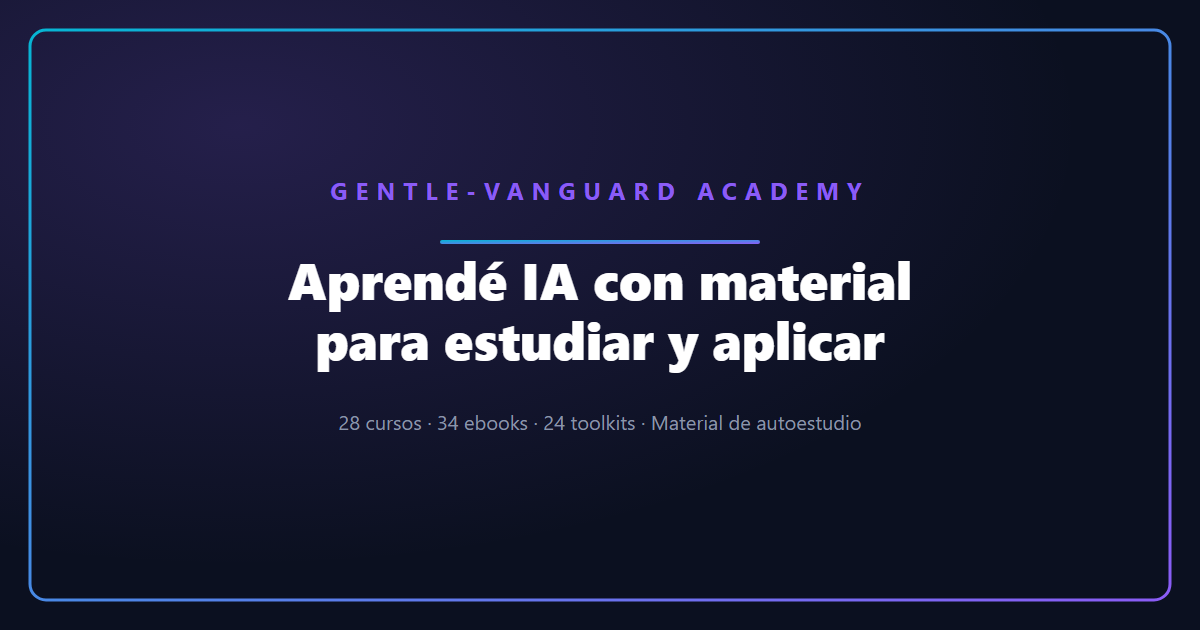
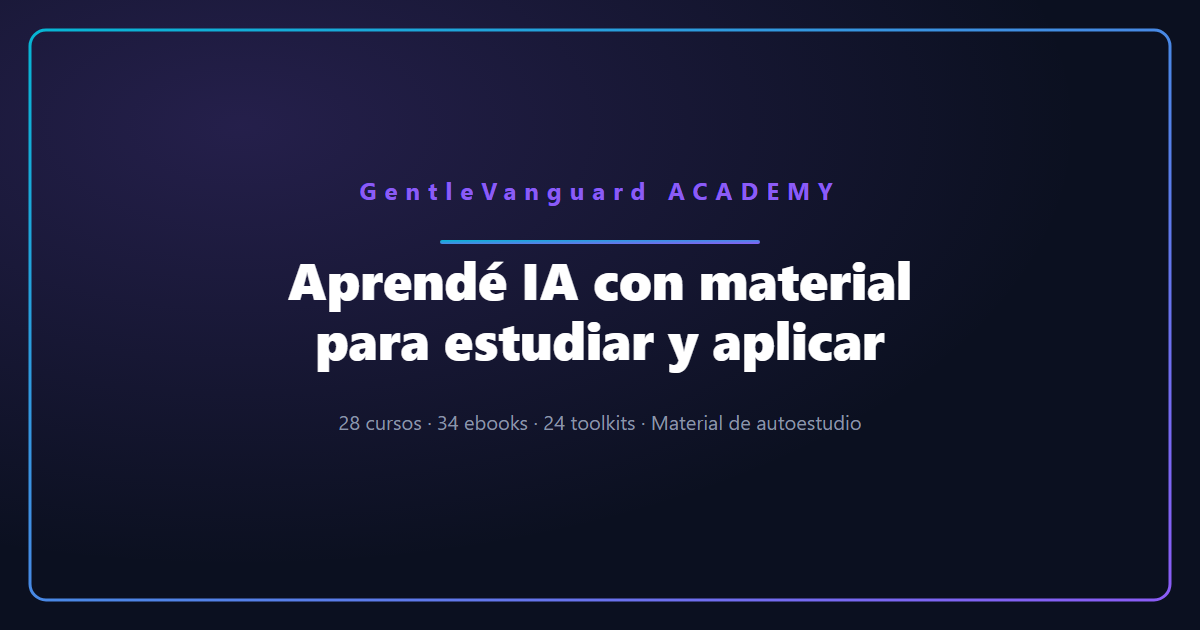
Unify corporate website and Academy under one public host

Changed region(s): [[0.2775, 0.2714, 0.7092, 0.3317]]

diff --git a/academy/catalog.js b/academy/catalog.js
@@ -18,17 +18,17 @@
     const more=document.createElement('button'),less=document.createElement('button');
     for(const button of [more,less]){button.type='button';button.className='btn btn-ghost';button.setAttribute('aria-controls',grid.id);buttons.append(button);}
     less.textContent='Ver menos';controls.append(status,buttons);grid.after(controls);
-    const state={grid,cards,status,more,less,rows:2,controls};grids.push(state);
-    more.addEventListener('click',()=>{state.rows+=2;render(state);});
+    const state={grid,cards,status,more,less,extraRows:0,controls};grids.push(state);
+    more.addEventListener('click',()=>{state.extraRows+=2;render(state);});
     less.addEventListener('click',()=>{
-      state.rows=2;render(state);
+      state.extraRows=0;render(state);
       const section=grid.closest('section');section.scrollIntoView({block:'start',behavior:matchMedia('(prefers-reduced-motion: reduce)').matches?'instant':'smooth'});
       section.querySelector('.section-title').setAttribute('tabindex','-1');section.querySelector('.section-title').focus({preventScroll:true});
     });
   });
   function render(state){
     const size=columns(),initial=size===1?3:size*2;
-    const limit=filtering?Infinity:(state.rows===2?initial:size*state.rows);
+    const limit=filtering?Infinity:initial+size*state.extraRows;
     const matching=state.cards.filter(card=>!card.classList.contains('card-hidden'));
     let seen=0;
     state.cards.forEach(card=>{

diff --git a/academy/index.html b/academy/index.html
@@ -324,7 +324,7 @@ footer a { color: var(--cyan); }
 <body><a href="/" style="display:block;padding:12px 24px;color:var(--gv-text);background:var(--gv-bg);font-family:var(--gv-font-body);text-underline-offset:4px">← GentleVanguard · Web de la empresa</a>
 
 <section class="hero">
-  <span class="hero-badge">GENTLE-VANGUARD ACADEMY</span>
+  <span class="hero-badge">GentleVanguard ACADEMY</span>
   <h1>Aprendé IA y tecnología<br>con <span class="g">material de autoestudio</span></h1>
   <p class="tagline">Cursos prácticos, ebooks, toolkits y paquetes por audiencia — lectura en Academy y exportación de ebooks y toolkits a PDF.</p>
   <p class="desc">Para personas que quieren dominar la IA en su trabajo, estudiantes que quieren estudiar más inteligente, y empresas que necesitan capacitación lista para entregar.</p>
